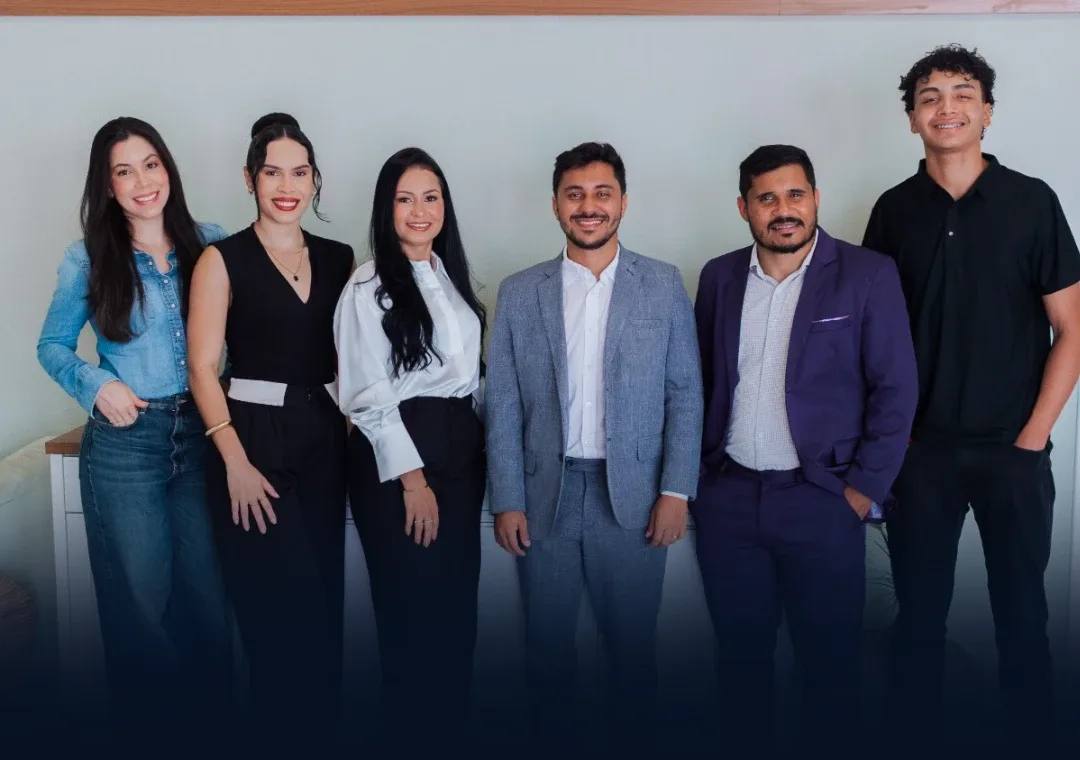
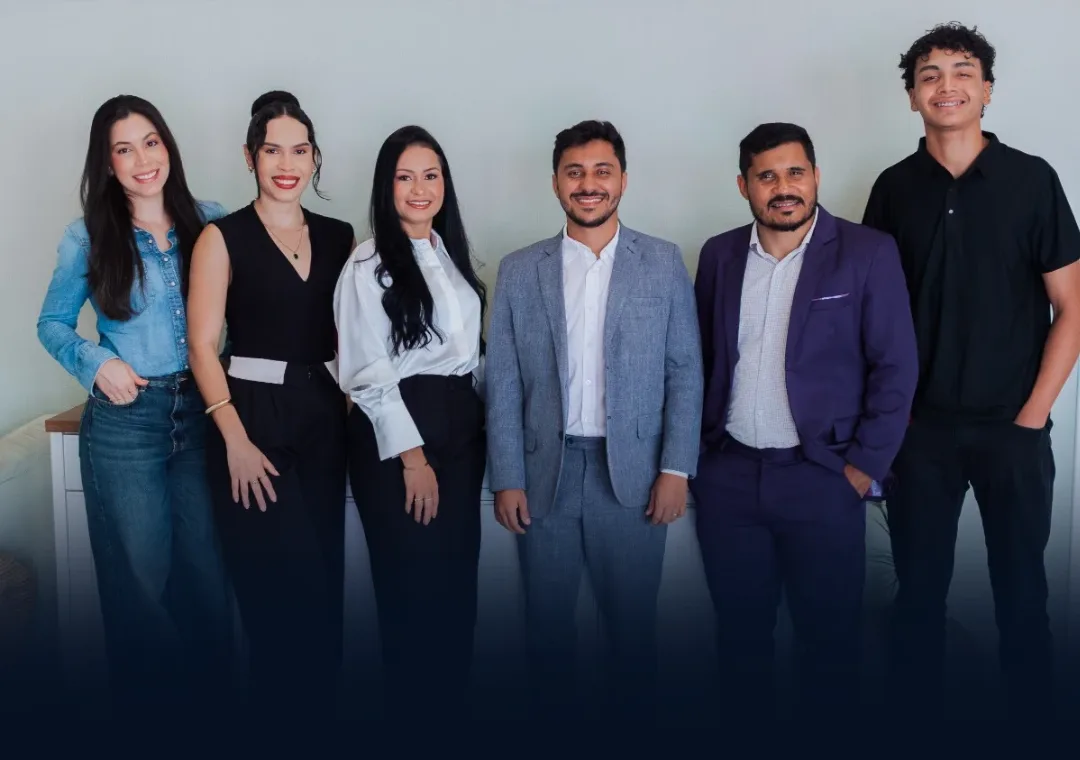
Iscas: ajuste de texto na prévia da marca e recorte da foto da equipe

diff --git a/src/app/ferramentas/marca/isca-marca.tsx b/src/app/ferramentas/marca/isca-marca.tsx
@@ -275,7 +275,7 @@ export function IscaMarca() {
                   </ul>
                   {previa.total > previa.parecidas.length && (
                     <p className="mt-3 text-[14px] text-[#0b1626]/60">
-                      E mais {previa.total - previa.parecidas.length} {previa.total - previa.parecidas.length === 1 ? "marca parecida" : "marcas parecidas"} com menor grau de semelhança.
+                      E mais {previa.total - previa.parecidas.length} {previa.total - previa.parecidas.length === 1 ? "marca parecida" : "marcas parecidas"} no relatório completo.
                     </p>
                   )}
                 </>
